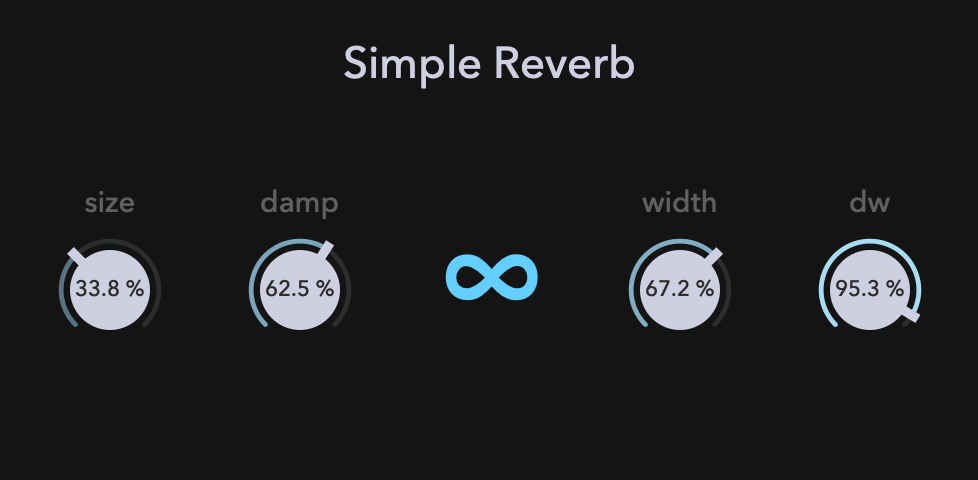
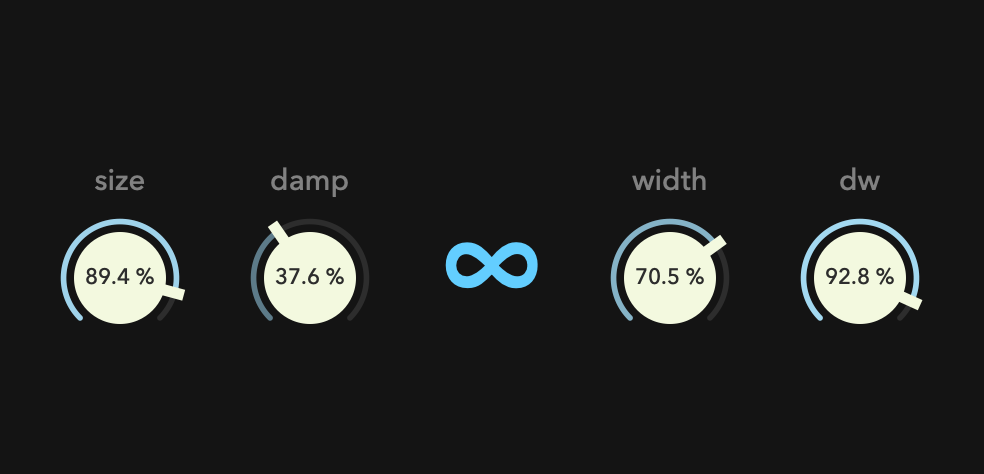
Change the color of dial to milkyWhite

diff --git a/Source/LookAndFeel/CustomLookAndFeel.cpp b/Source/LookAndFeel/CustomLookAndFeel.cpp
@@ -27,7 +27,7 @@ void CustomLookAndFeel::drawRotarySlider (juce::Graphics& g, int x, int y, int w
     auto radius = juce::jmin (bounds.getWidth(), bounds.getHeight()) / 2.0f;
     auto toAngle = rotaryStartAngle + sliderPos * (rotaryEndAngle - rotaryStartAngle);
     auto lineW = radius * 0.085f;
-    auto arcRadius = radius - lineW * 1.5f;
+    auto arcRadius = radius - lineW * 1.7f;
 
     juce::Path backgroundArc;
     backgroundArc.addCentredArc (bounds.getCentreX(),
@@ -63,10 +63,10 @@ void CustomLookAndFeel::drawRotarySlider (juce::Graphics& g, int x, int y, int w
     juce::Path thumb;
     thumb.addRectangle (-thumbWidth / 2, -thumbWidth / 2, thumbWidth, radius + lineW);
 
-    g.setColour (MyColours::offWhite);
+    g.setColour (MyColours::creamWhite);
     g.fillPath (thumb, juce::AffineTransform::rotation (toAngle + 3.12f).translated (bounds.getCentre()));
 
-    g.fillEllipse (bounds.reduced (8.0f));
+    g.fillEllipse (bounds.reduced (10.0f));
 }
 
 juce::Label* CustomLookAndFeel::createSliderTextBox (juce::Slider& slider)
@@ -78,7 +78,7 @@ juce::Label* CustomLookAndFeel::createSliderTextBox (juce::Slider& slider)
     l->setColour (juce::Label::textWhenEditingColourId, slider.findColour (juce::Slider::textBoxTextColourId));
     l->setColour (juce::Label::outlineWhenEditingColourId, slider.findColour (juce::Slider::textBoxOutlineColourId));
     l->setInterceptsMouseClicks (false, false);
-    l->setFont (14);
+    l->setFont (15);
 
     return l;
 }

diff --git a/Source/PluginEditor.cpp b/Source/PluginEditor.cpp
@@ -63,11 +63,11 @@ void SimpleReverbAudioProcessorEditor::paint (juce::Graphics& g)
 
 void SimpleReverbAudioProcessorEditor::resized()
 {
-    sizeSlider.setBounds   (30,  110, 60, 60);
-    dampSlider.setBounds   (125, 110, 60, 60);
-    widthSlider.setBounds  (315, 110, 60, 60);
-    dwSlider.setBounds     (410, 110, 60, 60);
-    freezeButton.setBounds (210, 110, 80, 40);
+    sizeSlider.setBounds   (30,  110, 70, 70);
+    dampSlider.setBounds   (125, 110, 70, 70);
+    freezeButton.setBounds (210, 110, 80, 50);
+    widthSlider.setBounds  (305, 110, 70, 70);
+    dwSlider.setBounds     (400, 110, 70, 70);
 }
 
 

diff --git a/Source/Components/RotarySlider.cpp b/Source/Components/RotarySlider.cpp
@@ -8,7 +8,7 @@ RotarySlider::RotarySlider()
     setLookAndFeel (&customLookAndFeel);
     setColour (juce::Slider::rotarySliderFillColourId, MyColours::blue);
     setColour (juce::Slider::textBoxTextColourId,      MyColours::blackGrey);
-    setColour (juce::Slider::textBoxOutlineColourId,   MyColours::grey);
+    setColour (juce::Slider::textBoxOutlineColourId,   MyColours::blackGrey.brighter (0.2f));
     setVelocityBasedMode (true);
     setVelocityModeParameters (0.7, 1, 0.09, false);
     setRotaryParameters (juce::MathConstants<float>::pi * 1.25f,

diff --git a/README.md b/README.md
@@ -1,19 +1,24 @@
 # Simple Reverb
+
 This is a simple reverb plugin made with the JUCE DSP module.
+
 ![SimpleReverb](SimpleReverb.png)
 
 ## Building
+
 ```
 $ git clone https://github.com/szkkng/SimpleReverb.git --recursive
 $ cd SimpleReverb
 $ cmake -S . -B build
-$ cmake --build build 
+$ cmake --build build
 ```
+
 ```
 # Here's Plugin.
 $ ls -l build/Source/SimpleReverb_artefacts/VST3
 ```
 
 ## Other
+
 - Tutorial: [How to Make a Simple Reverb with the JUCE DSP Module](https://suzuki-kengo.dev/posts/simple-reverb/)
 - YouTube: [Simple Reverb - JUCE DSP module -](http://www.youtube.com/watch?v=jjTF3EwplWA)
